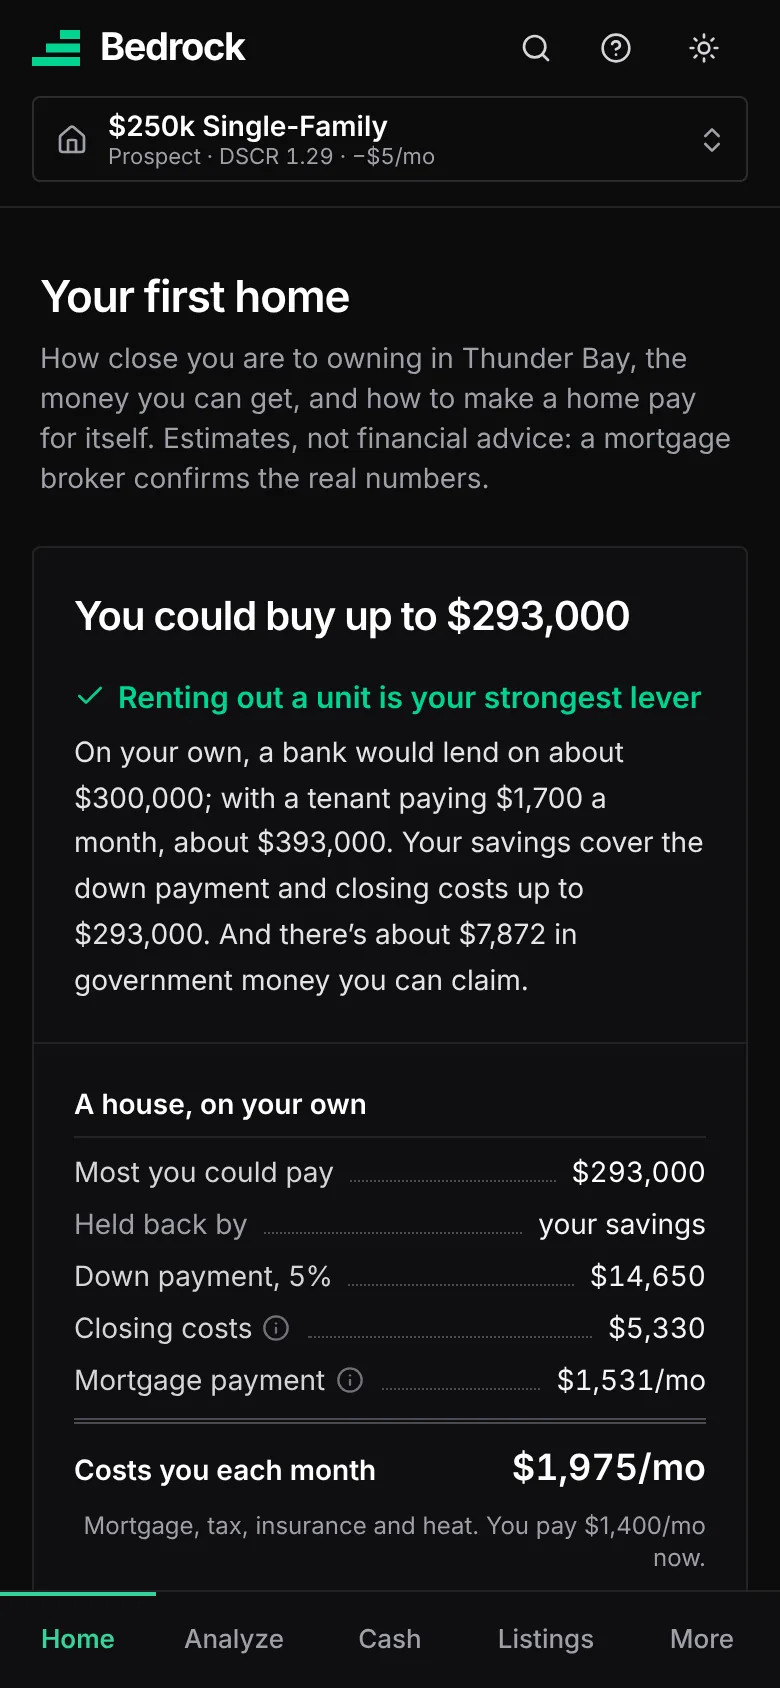
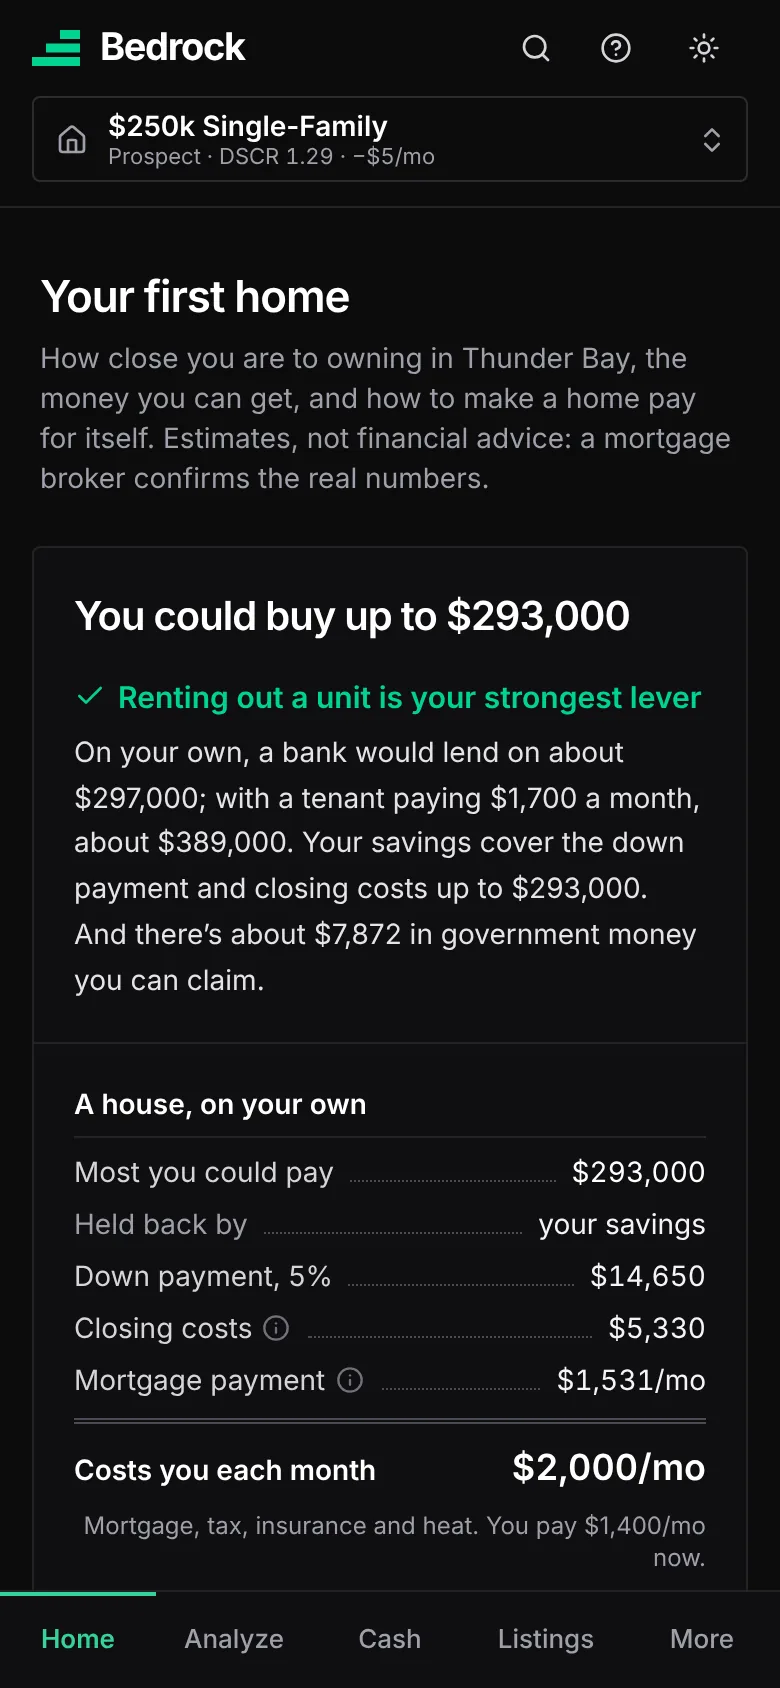
Ask four questions before showing a first-time buyer a result
A first visit to Home showed the example buyer's numbers as if they were
the visitor's. Now Home asks for income, savings, rent and debts first,
then shows their answer. "See an example first" still shows the example,
labelled as one. Profiles saved before this count as entered if any
answer differs from the example.

Listings no longer say "You qualify" until the visitor has given their
numbers, since that depends on them; the cost to live in still shows.

Property tax for listings without a stated bill is now 1% of the price,
up from 0.9%: the 19 Thunder Bay listings that state their bill run a
median 0.94% (0.97% for houses).

Claude-Session: https://claude.ai/code/session_01BAXLh1LJG2DLzXyzfFg8Ah

Changed region(s): [[0.0923, 0.4621, 0.8923, 0.5853], [0.7385, 0.8626, 0.8, 0.8934], [0.6769, 0.8626, 0.7077, 0.8934]]

diff --git a/src/views/HomeView.jsx b/src/views/HomeView.jsx
@@ -1,6 +1,6 @@
-import { useMemo } from 'react';
+import { useMemo, useState } from 'react';
 import { ArrowRight, Check, CheckCircle2, ExternalLink, XCircle } from 'lucide-react';
-import { RULES, RULES_CHECKED, benefits, buyCheck, liveIn, maxPrice, monthsToSave } from '../lib/firstHome.js';
+import { DEFAULT_PROFILE, RULES, RULES_CHECKED, benefits, buyCheck, liveIn, maxPrice, monthsToSave } from '../lib/firstHome.js';
 import { ALLOWED, MONEY, STEPS, SUITE_KINDS, SUITE_RULES_CHECKED, suitePayback } from '../lib/suites.js';
 import { money, percent } from '../lib/format.js';
 import { INSURANCE_MIN } from '../lib/market.js';
@@ -32,7 +32,7 @@ const yesNo = [
 
 /** Your numbers: what a lender and the savings plan need to know. */
 function Profile({ p, onHome }) {
-  const f = (key, props) => <NumberField id={`home-${key}`} value={p[key]} onChange={(v) => onHome({ [key]: v })} {...props} />;
+  const f = (key, props) => <NumberField id={`home-${key}`} value={p[key]} onChange={(v) => onHome({ [key]: v, entered: true })} {...props} />;
   return (
     <Card>
       <CardHeader title="Your numbers" subtitle="Saved with your deals. Only you see them." />
@@ -269,6 +269,78 @@ function SuiteGuide({ s, onSuite }) {
 }
 
 /**
+ * First visit: four questions before any result, so the first number a
+ * person sees is about them, not the example buyer.
+ */
+function Start({ onHome, onExample }) {
+  const [v, setV] = useState({ income: null, savings: null, debts: null, rentNow: null });
+  const [missing, setMissing] = useState([]);
+  const set = (key) => (n) => {
+    setV((x) => ({ ...x, [key]: n }));
+    setMissing((m) => m.filter((k) => k !== key));
+  };
+  const submit = (e) => {
+    e.preventDefault();
+    const gaps = ['income', 'savings', 'rentNow'].filter((k) => !Number.isFinite(v[k]));
+    if (gaps.length) {
+      setMissing(gaps);
+      document.getElementById(`start-${gaps[0]}`)?.focus();
+      return;
+    }
+    onHome({ income: v.income, savings: v.savings, debts: Number.isFinite(v.debts) ? v.debts : 0, rentNow: v.rentNow, entered: true });
+  };
+  const label = { income: 'your income', savings: 'what you’ve saved', rentNow: 'the rent you pay' };
+  return (
+    <Card>
+      <form onSubmit={submit} noValidate aria-labelledby="start-title">
+        <div className="border-b border-hairline px-5 py-5 sm:px-6">
+          <h2 id="start-title" className="text-xl font-semibold tracking-tight text-zinc-950 sm:text-2xl dark:text-white">
+            Four questions, then your answer
+          </h2>
+          <p className="mt-1.5 text-sm leading-relaxed text-zinc-600 dark:text-zinc-400">
+            What a bank would lend you, alone and with a tenant, and what it would cost you each month. Your answers stay in this browser.
+          </p>
+        </div>
+        <div className="grid gap-4 px-5 py-5 sm:grid-cols-2 sm:px-6">
+          <NumberField id="start-income" label="Household income, before tax" prefix="$" suffix="/yr" step={1000} decimals={0} value={v.income} onChange={set('income')} hint="Everyone who’ll be on the mortgage" />
+          <NumberField id="start-savings" label="Saved for buying" prefix="$" step={1000} decimals={0} value={v.savings} onChange={set('savings')} hint="Bank, TFSA, FHSA, RRSP: anything for the down payment" />
+          <NumberField id="start-rentNow" label="Rent you pay now" prefix="$" suffix="/mo" step={50} decimals={0} value={v.rentNow} onChange={set('rentNow')} hint="Your share, if you split it" />
+          <NumberField id="start-debts" label="Monthly debt payments" prefix="$" suffix="/mo" step={25} decimals={0} value={v.debts} onChange={set('debts')} hint="Car, student loan, card minimums. Leave blank if none" />
+        </div>
+        <div className="flex flex-col gap-3 border-t border-hairline px-5 py-4 sm:flex-row sm:items-center sm:justify-between sm:px-6">
+          <p role="alert" className="text-sm text-red-700 dark:text-red-400">
+            {missing.length > 0 && `Add ${missing.map((k) => label[k]).join(', ').replace(/, ([^,]*)$/, ' and $1')} to see your answer.`}
+          </p>
+          <div className="flex flex-col-reverse gap-2 sm:flex-row sm:items-center">
+            <Button type="button" variant="ghost" onClick={onExample}>
+              See an example first
+            </Button>
+            <Button type="submit" variant="primary">
+              See what I can buy <ArrowRight className="size-4" aria-hidden />
+            </Button>
+          </div>
+        </div>
+      </form>
+    </Card>
+  );
+}
+
+/** While someone browses the example, say so, and offer the questions. */
+function ExampleNote({ onStart }) {
+  return (
+    <div className="flex flex-col gap-3 border border-amber-300 bg-amber-50 px-4 py-3 text-sm text-amber-950 sm:flex-row sm:items-center sm:justify-between dark:border-amber-500/40 dark:bg-amber-500/10 dark:text-amber-100">
+      <p>
+        <span className="font-semibold">These are example numbers:</span> {money(DEFAULT_PROFILE.income)} income, {money(DEFAULT_PROFILE.savings)} saved, paying {money(DEFAULT_PROFILE.rentNow)}{' '}
+        rent.
+      </p>
+      <Button variant="primary" className="shrink-0" onClick={onStart}>
+        Use my numbers
+      </Button>
+    </div>
+  );
+}
+
+/**
  * The Home tab: for someone buying their first home. What you could buy on
  * your own or with a tenant, the government money you can get, when you'll
  * be ready, what living in one of your deals would cost, and how to add a
@@ -282,13 +354,33 @@ export default function HomeView({ profile: p, suite, market, items, liveDealId,
   const b = useMemo(() => benefits({ profile: p, price: p.targetPrice, units: p.targetUnits }), [p]);
   const solo = maxPrice({ profile: p, units: 1, ratePct, taxPct });
   const duplex = maxPrice({ profile: p, units: 2, ratePct, taxPct, rentPerOtherUnit: rentEach });
+  const [example, setExample] = useState(false);
+
+  const header = (
+    <ViewHeader title="Your first home">
+      How close you are to owning in Thunder Bay, the money you can get, and how to make a home pay for itself. Estimates, not financial advice: a mortgage broker
+      confirms the real numbers.
+    </ViewHeader>
+  );
+
+  if (!p.entered && !example) {
+    return (
+      <div className="space-y-6">
+        {header}
+        <Start onHome={onHome} onExample={() => setExample(true)} />
+        <SectionGroup>
+          <Section id="home-suite" title="Add a suite or backyard home" meaning="Turn a house you own (or buy) into one that pays you rent: what’s allowed in Thunder Bay, the permit steps, and whether it pays.">
+            <SuiteGuide s={suite} onSuite={onSuite} />
+          </Section>
+        </SectionGroup>
+      </div>
+    );
+  }
 
   return (
     <div className="space-y-6">
-      <ViewHeader title="Your first home">
-        How close you are to owning in Thunder Bay, the money you can get, and how to make a home pay for itself. Estimates, not financial advice: a mortgage broker
-        confirms the real numbers.
-      </ViewHeader>
+      {header}
+      {!p.entered && <ExampleNote onStart={() => setExample(false)} />}
 
       <SummaryCard
         id="home-summary"

diff --git a/src/views/ListingsView.jsx b/src/views/ListingsView.jsx
@@ -127,7 +127,7 @@ function ListingRow({ s, home, rank, sort, feed, imported, hidden, onAnalyze, on
           {home ? (
             <>
               <span className="block text-zinc-900 dark:text-zinc-100">{money(home.costToLive)}/mo</span>
-              {home.canBuy && <span className="mt-0.5 block text-[11px] font-medium text-emerald-700 dark:text-emerald-400">You qualify</span>}
+              {home.known && home.canBuy && <span className="mt-0.5 block text-[11px] font-medium text-emerald-700 dark:text-emerald-400">You qualify</span>}
             </>
           ) : (
             <span className="text-zinc-500 dark:text-zinc-400">—</span>
@@ -170,7 +170,7 @@ function ListingRow({ s, home, rank, sort, feed, imported, hidden, onAnalyze, on
                   <span className={signedClass(s.cash.coc)}>{percent(s.cash.coc, 1)}</span>
                 </Metric>
                 {home && (
-                  <Metric label="If you live in it" sub={home.canBuy ? `you could buy it, ${money(home.down)} down` : home.qualifies ? `${money(home.shortCash)} short of the cash` : 'not yet on your income'}>
+                  <Metric label="If you live in it" sub={!home.known ? 'add your numbers on Home to see if you qualify' : home.canBuy ? `you could buy it, ${money(home.down)} down` : home.qualifies ? `${money(home.shortCash)} short of the cash` : 'not yet on your income'}>
                     {money(home.costToLive)}/mo
                   </Metric>
                 )}
@@ -291,7 +291,17 @@ export default function ListingsView({ feedState, market, targets, profile, impo
 
   // For sale, with a page of its own to check it against (rankListings applies the same rule).
   const active = useMemo(() => (feed?.listings ?? []).filter((l) => (l.status ?? 'active') === 'active' && listingPageUrl(l.url, l.address)), [feed]);
-  const homes = useMemo(() => new Map(active.map((l) => [l.id, profile ? homeFor(listingToDeal(l, market, 'own'), profile, market.rate) : null])), [active, market, profile]);
+  // Until someone gives their own numbers on Home, the cost to live in still holds (it doesn't depend on them), but whether they'd qualify is unknown.
+  const homes = useMemo(
+    () =>
+      new Map(
+        active.map((l) => {
+          const h = profile ? homeFor(listingToDeal(l, market, 'own'), profile, market.rate) : null;
+          return [l.id, h && { ...h, known: profile.entered !== false }];
+        }),
+      ),
+    [active, market, profile],
+  );
   const ranked = useMemo(() => {
     const list = rankListings(active, market, targets, { sort: sort === LIVE_SORT.key ? 'perDoor' : sort, showHidden });
     if (sort !== LIVE_SORT.key) return list;

diff --git a/src/lib/firstHome.js b/src/lib/firstHome.js
@@ -48,7 +48,11 @@ export const DEFAULT_PROFILE = {
   newBuild: false,
   targetPrice: 400000, // the home you're saving for
   targetUnits: 2, // a duplex: live in one unit, rent the other
+  entered: false, // false until the person gives their own numbers; until then these are an example
 };
+
+// The answers the first-visit questions ask for.
+const STARTER_KEYS = ['income', 'savings', 'debts', 'rentNow'];
 
 const num = (v) => (Number.isFinite(Number(v)) ? Number(v) : 0);
 
@@ -57,6 +61,8 @@ export function normalizeProfile(p) {
   for (const k of ['income', 'savings', 'monthlySave', 'debts', 'rentNow', 'targetPrice']) if (p && Number.isFinite(Number(p[k]))) out[k] = Math.max(Number(p[k]), 0);
   for (const k of ['firstTime', 'newBuild']) if (typeof p?.[k] === 'boolean') out[k] = p[k];
   if ([1, 2, 3, 4].includes(Number(p?.targetUnits))) out.targetUnits = Number(p.targetUnits);
+  // Profiles saved before this flag existed count as entered once any answer differs from the example.
+  out.entered = typeof p?.entered === 'boolean' ? p.entered : STARTER_KEYS.some((k) => typeof p?.[k] === 'number' && p[k] !== DEFAULT_PROFILE[k]);
   return out;
 }
 

diff --git a/src/lib/firstHome.test.js b/src/lib/firstHome.test.js
@@ -119,6 +119,16 @@ describe('money you can get', () => {
   });
 });
 
+describe('normalizeProfile', () => {
+  it('treats the example numbers as not yet entered, and older edited profiles as entered', () => {
+    expect(normalizeProfile(undefined).entered).toBe(false);
+    expect(normalizeProfile({ ...DEFAULT_PROFILE, entered: undefined }).entered).toBe(false);
+    expect(normalizeProfile({ income: 82000 }).entered).toBe(true);
+    expect(normalizeProfile({ income: 82000, entered: false }).entered).toBe(false);
+    expect(normalizeProfile({ entered: true }).entered).toBe(true);
+  });
+});
+
 describe('homeFor', () => {
   it('works out living in a listing, and skips 5+ unit buildings', () => {
     const deal = { units: 2, price: 350000, rentPerUnit: 1500, taxesAnnual: 4000, insuranceAnnual: 1800, hoaMonthly: 200, maintPct: 5, capexPct: 5, vacancyPct: 4 };

diff --git a/src/lib/market.js b/src/lib/market.js
@@ -39,7 +39,7 @@ export const DEFAULT_MARKET = {
   closingPct: 1, // legal, title, inspection; land transfer tax is added on top
   insurancePerUnit: 800, // $ a year per unit, at least INSURANCE_MIN
   utilitiesPerUnit: 50, // $ a month per unit the owner pays (water, shared heat) in 2+ unit buildings
-  taxPct: 0.9, // property tax as % of price, only when a listing doesn't say
+  taxPct: 1, // property tax as % of price, only when a listing doesn't say: Thunder Bay listings that state their bill run a median 0.94% (0.97% for houses)
   mgmtPct: 8,
   maintPct: 6,
   vacancyPct: 4,
